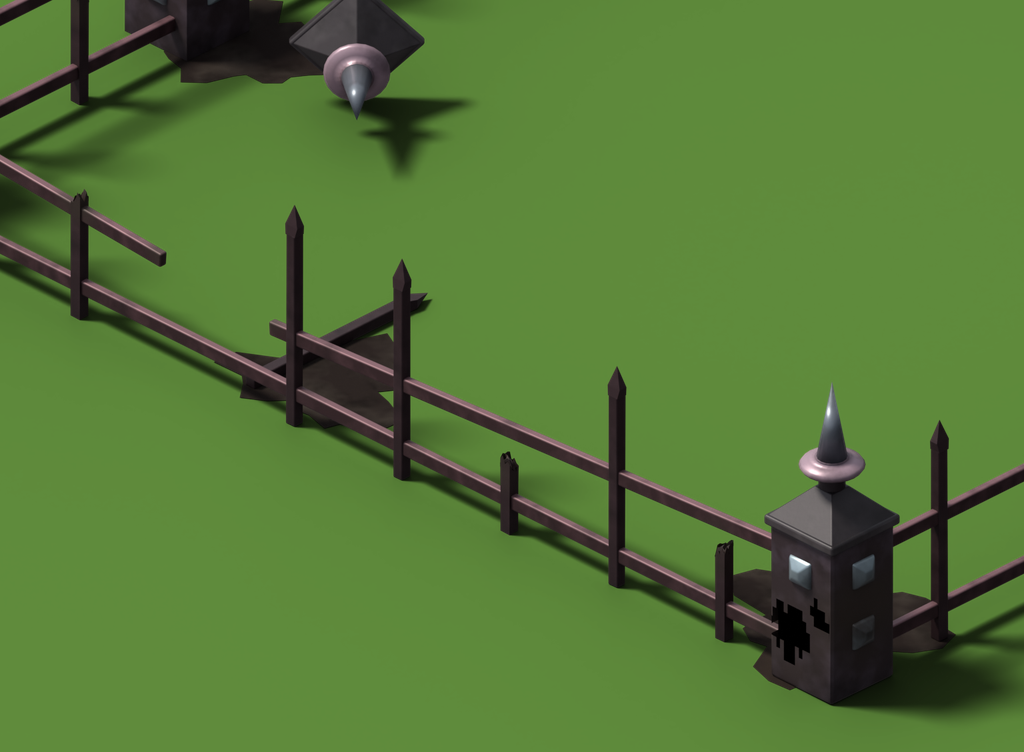
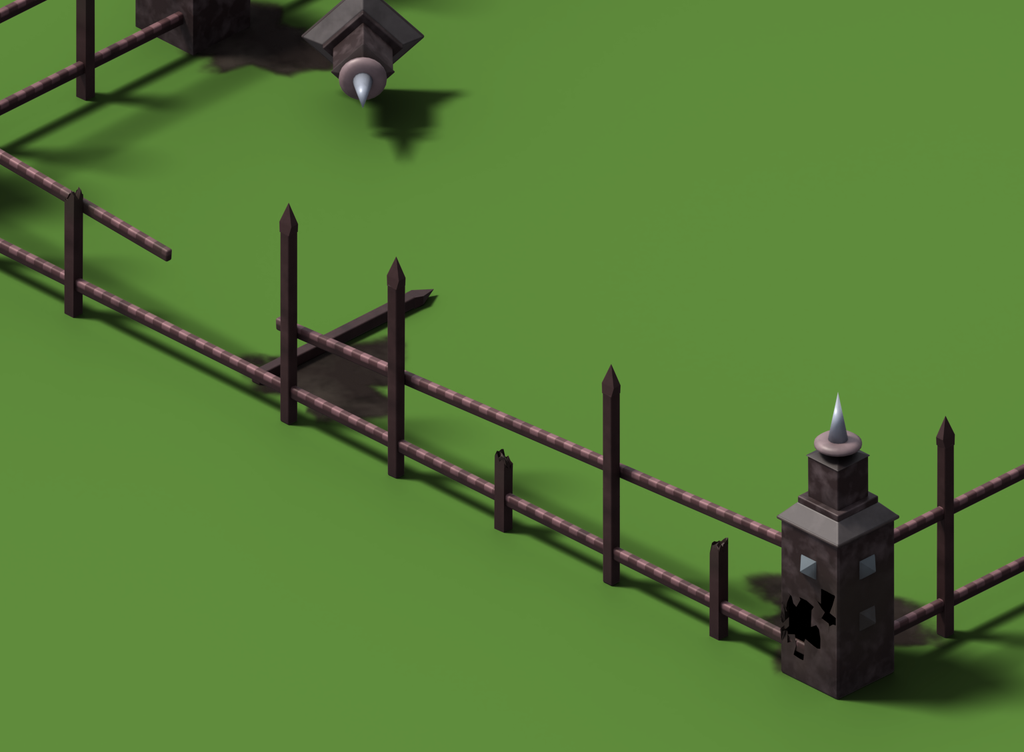
3D Champion Cage: damaged and destroyed re-rendered with the new posts; torn bays, soft ash
The destroyed fence bays are no longer tidy ladders: each rail snapped with a gap, the bay kinked at the break, every
picket knocked askew and some spear tips bent. The fallen post tops lie on their sides. Ash patches fade out over a
blotchy rim instead of ending in a hard sheet edge. Floating check: 0 floating, 0 outside, both states. States sheet
and damage crops rebuilt (crops_dmg.py makes the crops).

Claude-Session: https://claude.ai/code/session_01YTHpn2B3GQv2nWyfBMAwkm

diff --git a/art-samples/buildings-b6/cage-v1/damage/cagedmg.py b/art-samples/buildings-b6/cage-v1/damage/cagedmg.py
@@ -112,24 +112,74 @@ def holes(o, patches, axes, seed=0):
     return o, core
 
 
+def ash_mat():
+    """Ash and soot: dark brown-black with paler grey blotches, fading out to the grass at its edge (the mesh's "fade"
+    attribute: 1 inside, 0 at the rim), so a patch has no hard sheet edge."""
+    m = bpy.data.materials.get("ashmat")
+    if m:
+        return m
+    m = painted("ashmat", (28, 22, 20), rough=1.0, metal=0.0, wear=(62, 56, 50), scale=2.5, dirt=0.0, spec=0.05)
+    t = m.node_tree
+    out = next(n for n in t.nodes if n.type == "OUTPUT_MATERIAL")
+    bs = next(n for n in t.nodes if n.type == "BSDF_PRINCIPLED")
+    at = t.nodes.new("ShaderNodeAttribute")
+    at.attribute_name = "fade"
+    nz = t.nodes.new("ShaderNodeTexNoise")                  # the fade broken up, so the rim is blotchy, not a ring
+    nz.inputs["Scale"].default_value = 1.6
+    nz.inputs["Detail"].default_value = 3.0
+    t.links.new(t.nodes.new("ShaderNodeTexCoord").outputs["Object"], nz.inputs["Vector"])
+    mul = t.nodes.new("ShaderNodeMath")
+    mul.operation, mul.use_clamp = "MULTIPLY", True
+    t.links.new(at.outputs["Fac"], mul.inputs[0])
+    sc = t.nodes.new("ShaderNodeMapRange")
+    sc.inputs[1].default_value, sc.inputs[2].default_value = 0.3, 0.6
+    sc.inputs[3].default_value, sc.inputs[4].default_value = 0.6, 1.6
+    t.links.new(nz.outputs["Fac"], sc.inputs[0])
+    t.links.new(sc.outputs[0], mul.inputs[1])
+    soft = t.nodes.new("ShaderNodeMapRange")                # a smooth roll-off, no visible step
+    soft.interpolation_type = "SMOOTHERSTEP"
+    soft.inputs[1].default_value, soft.inputs[2].default_value = 0.1, 0.95
+    t.links.new(mul.outputs[0], soft.inputs[0])
+    tr = t.nodes.new("ShaderNodeBsdfTransparent")
+    mx = t.nodes.new("ShaderNodeMixShader")
+    t.links.new(soft.outputs[0], mx.inputs[0])
+    t.links.new(tr.outputs[0], mx.inputs[1])
+    t.links.new(bs.outputs[0], mx.inputs[2])
+    t.links.new(mx.outputs[0], out.inputs["Surface"])
+    return m
+
+
 def ash(name, at, r, seed=0):
     """A ragged patch of ash and soot on the ground (Flash's broken buildings sit in a dark burnt patch): a thin flat
-    sheet, its edge torn, dark brown-black with paler grey ash in blotches."""
+    sheet, solid in the middle and fading out over its torn outer band."""
     q = random.Random(seed)
-    m = bpy.data.materials.get("ashmat") or painted("ashmat", (28, 22, 20), rough=1.0, metal=0.0, wear=(62, 56, 50),
-                                                    scale=2.5, dirt=0.0, spec=0.05)
     bm = bmesh.new()
-    n = 28
+    n = 32
     ph = [q.uniform(0, 6.3) for _ in range(3)]
-    ring = []
-    for i in range(n):
-        a = 2 * math.pi * i / n
-        rr = r * (1 + 0.22 * math.sin(3 * a + ph[0]) + 0.12 * math.sin(7 * a + ph[1]) + q.uniform(-0.12, 0.12))
-        ring.append(bm.verts.new((rr * math.cos(a), rr * math.sin(a) * q.uniform(0.85, 1.0), 0.0)))
+    sq = q.uniform(0.8, 1.0)
+    rings, fades = [], []
+    for k, (f, fade) in enumerate(((0.45, 1.0), (0.75, 0.55), (1.1, 0.0))):
+        ring = []
+        for i in range(n):
+            a = 2 * math.pi * i / n
+            rr = r * f * (1 + 0.24 * math.sin(3 * a + ph[0]) + 0.14 * math.sin(7 * a + ph[1])
+                          + 0.04 * math.sin(11 * a + ph[2]) + q.uniform(-0.04, 0.04))
+            ring.append(bm.verts.new((rr * math.cos(a), rr * math.sin(a) * sq, 0.0)))
+            fades.append(fade)
+        rings.append(ring)
     c = bm.verts.new((0, 0, 0))
+    fades.append(1.0)
     for i in range(n):
-        bm.faces.new((c, ring[i], ring[(i + 1) % n]))
-    o = G["mesh_ob"](name, bm, [m], smooth=False)
+        j = (i + 1) % n
+        bm.faces.new((c, rings[0][i], rings[0][j]))
+        for r0, r1 in zip(rings, rings[1:]):
+            bm.faces.new((r0[i], r1[i], r1[j], r0[j]))
+    bm.verts.index_update()
+    order = [v.index for v in bm.verts]
+    o = G["mesh_ob"](name, bm, [ash_mat()], smooth=True)
+    att = o.data.attributes.new("fade", "FLOAT", "POINT")
+    for idx, f in zip(order, fades):
+        att.data[idx].value = f
     o.location = (at[0], at[1], GROUND + 0.004 + 0.001 * (seed % 5))
     return o
 
@@ -276,9 +326,9 @@ def damaged():
 
 
 # ------------------------------------------------------------------------------------------------------------ destroyed
-def bay(k, b, name):
-    """Side k's bay b (0..2 from the side's start): its two rail pieces (from post face to post face) and its pickets,
-    built standing. Returns the objects and the bay's ground line ends (fence line)."""
+def bay(k, b, name, broken=False):
+    """Side k's bay b (0..2 from the side's start): its two rails (from post face to post face; broken: each snapped in
+    two with a gap) and its pickets, built standing. Returns the objects and the bay's ground line ends (fence line)."""
     p0, p1, mid = S.sides()[k]
     d = Vector((p1[0] - p0[0], p1[1] - p0[1], 0))
     ln = d.length
@@ -289,7 +339,13 @@ def bay(k, b, name):
     e = Vector((p0[0], p0[1], 0)) + d * t1 - (u * gap if mid or b == 2 else Vector())
     obs = []
     for j, z in enumerate(S.RAIL_Z):
-        obs.append(rail_fn(f"{name}rail{j}", (a.x, a.y), (e.x, e.y), z))
+        if not broken:
+            obs.append(rail_fn(f"{name}rail{j}", (a.x, a.y), (e.x, e.y), z))
+            continue
+        t, g = R.uniform(0.3, 0.7), R.uniform(0.06, 0.16)    # snapped: a gap torn out of it somewhere along
+        m1, m2 = a + (e - a) * (t - g), a + (e - a) * (t + g)
+        obs.append(rail_fn(f"{name}rail{j}a", (a.x, a.y), (m1.x, m1.y), z))
+        obs.append(rail_fn(f"{name}rail{j}b", (m2.x, m2.y), (e.x, e.y), z))
     n = 3 * (S.PER_BAY + 1)
     for j in range(1, n):
         if mid and j % (S.PER_BAY + 1) == 0:
@@ -324,7 +380,7 @@ def destroyed():
             spot = c * R.uniform(0.22, 0.42) + Vector((R.uniform(-0.5, 0.5), R.uniform(-0.5, 0.5), 0))
             head = [o for o in cap if part(o)[1] != "spike"]
             spike = [o for o in cap if part(o)[1] == "spike"]
-            lie(head, R.uniform(0, 180), R.uniform(4, 9), spot)          # dropped, sitting askew in the rubble
+            lie(head, R.uniform(0, 180), R.uniform(70, 100), spot)       # dropped, lying on its side in the rubble
             turn(head, spot, (0, 0, 1), R.uniform(0, 90))
             for o in head:
                 o.location.z -= 0.05
@@ -341,7 +397,7 @@ def destroyed():
         into = inward(k)
         for b in range(3):
             name = f"b{k}{b}"
-            obs, a, e = bay(k, b, name)
+            obs, a, e = bay(k, b, name, broken=b != 2)
             if b == 2:                                     # stubs: pickets snapped low, rails gone
                 kill([o for o in obs if "rail" in o.name or o.name.endswith("-tip")])
                 for o in [o for o in SC.objects if o.name.startswith(f"picket{name}p") and "-tip" not in o.name]:
@@ -354,7 +410,24 @@ def destroyed():
             turn(obs, line, axis, 90 * sgn)
             # slid a little further in and turned a little, each bay its own way
             turn(obs, line, (0, 0, 1), R.uniform(-7, 7), move=tuple(into * R.uniform(0.3, 0.7)))
-            sit(obs)
+            # torn and bent, not a tidy ladder: kinked where the rails broke, every picket knocked askew, a few bent
+            c = sum((o.matrix_world.translation for o in obs), Vector()) / len(obs)
+            far = [o for o in obs if (o.matrix_world.translation - c).dot(axis) > 0]
+            turn(far, c, (0, 0, 1), R.choice((-1, 1)) * R.uniform(12, 24), move=tuple(axis * R.uniform(0.1, 0.3)))
+            groups = {}
+            for o in obs:
+                groups.setdefault(o.name.split("-")[0], []).append(o)
+            for nm, grp in groups.items():
+                g = sum((o.matrix_world.translation for o in grp), Vector()) / len(grp)
+                if nm.startswith("picket"):
+                    turn(grp, g, (0, 0, 1), R.uniform(-16, 16), move=tuple(axis * R.uniform(-0.12, 0.12)))
+                    tip = [o for o in grp if o.name.endswith("-tip")]
+                    if tip and R.random() < 0.4:                # the spear tip bent sideways at its foot
+                        turn(tip, tip[0].matrix_world.translation, (0, 0, 1), R.choice((-1, 1)) * R.uniform(25, 50))
+                else:
+                    turn(grp, g, (0, 0, 1), R.uniform(-6, 6), move=tuple(into * R.uniform(-0.1, 0.1)))
+            for grp in groups.values():
+                sit(grp)
             if (k + b) % 2 == 0:
                 recolour(obs, burnt)
             # torn: some pickets gone from the bay, one or two thrown loose beside it

diff --git a/art-samples/buildings-b6/cage-v1/damage/crops_dmg.py b/art-samples/buildings-b6/cage-v1/damage/crops_dmg.py
@@ -1,0 +1,19 @@
+"""crops_dmg.py : full-size crops of the damaged and destroyed 3D looks (render/L1-<state>-base.png, 12 px per Flash px),
+on grass, scaled to 2/3 -> cage-damaged-crop.png, cage-destroyed-crop.png. Boxes are Flash pixels (x0, y0, x1, y1)."""
+from pathlib import Path
+
+from PIL import Image
+
+HERE = Path(__file__).resolve().parent
+R = HERE.parent / "render"
+FRAME = (-140, -24, 160, 160)
+K = 12
+GRASS = (96, 140, 60)
+BOXES = {"damaged": (-104, 60, 24, 154), "destroyed": (-64, 30, 72, 140)}
+
+for state, (x0, y0, x1, y1) in BOXES.items():
+    im = Image.open(R / f"L1-{state}-base.png").convert("RGBA")
+    c = im.crop(((x0 - FRAME[0]) * K, (y0 - FRAME[1]) * K, (x1 - FRAME[0]) * K, (y1 - FRAME[1]) * K))
+    bg = Image.new("RGBA", c.size, GRASS + (255,))
+    bg.alpha_composite(c)
+    bg.convert("RGB").resize((c.width * 2 // 3, c.height * 2 // 3), Image.LANCZOS).save(HERE / f"cage-{state}-crop.png")
